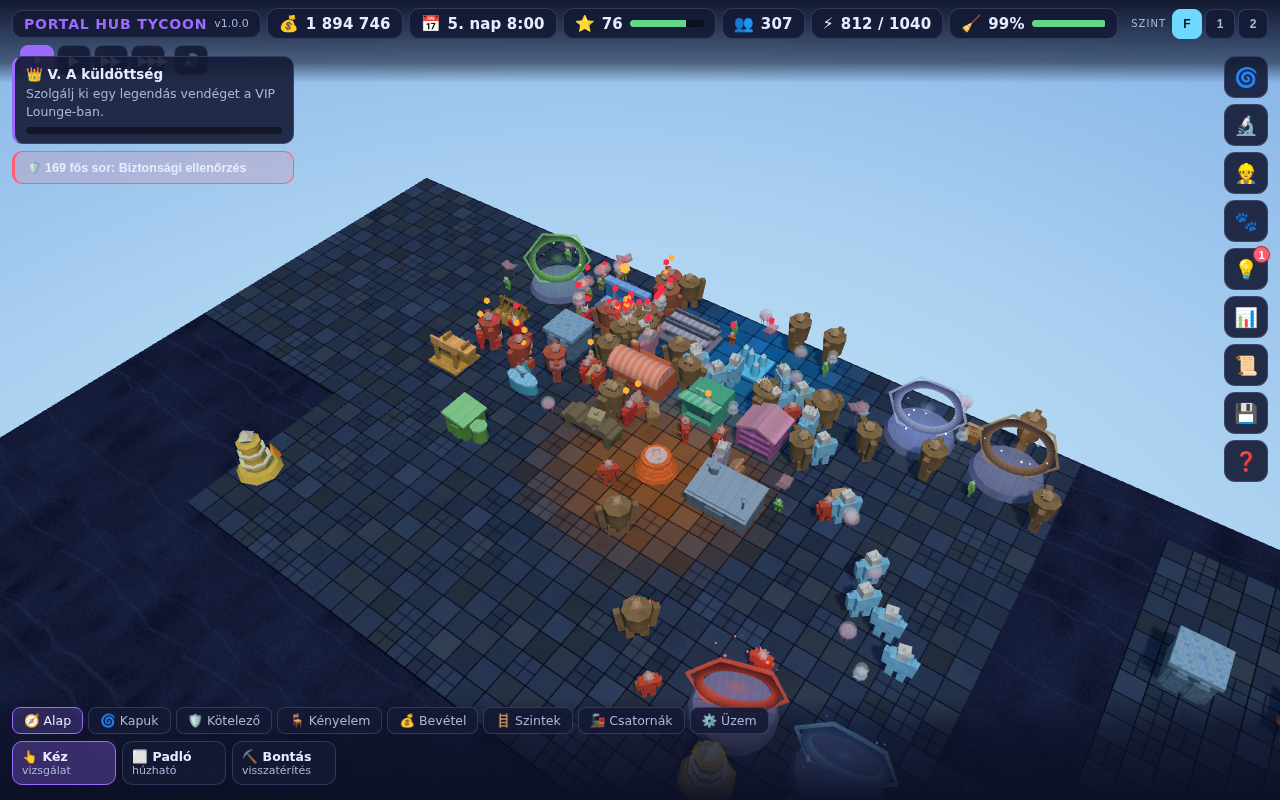
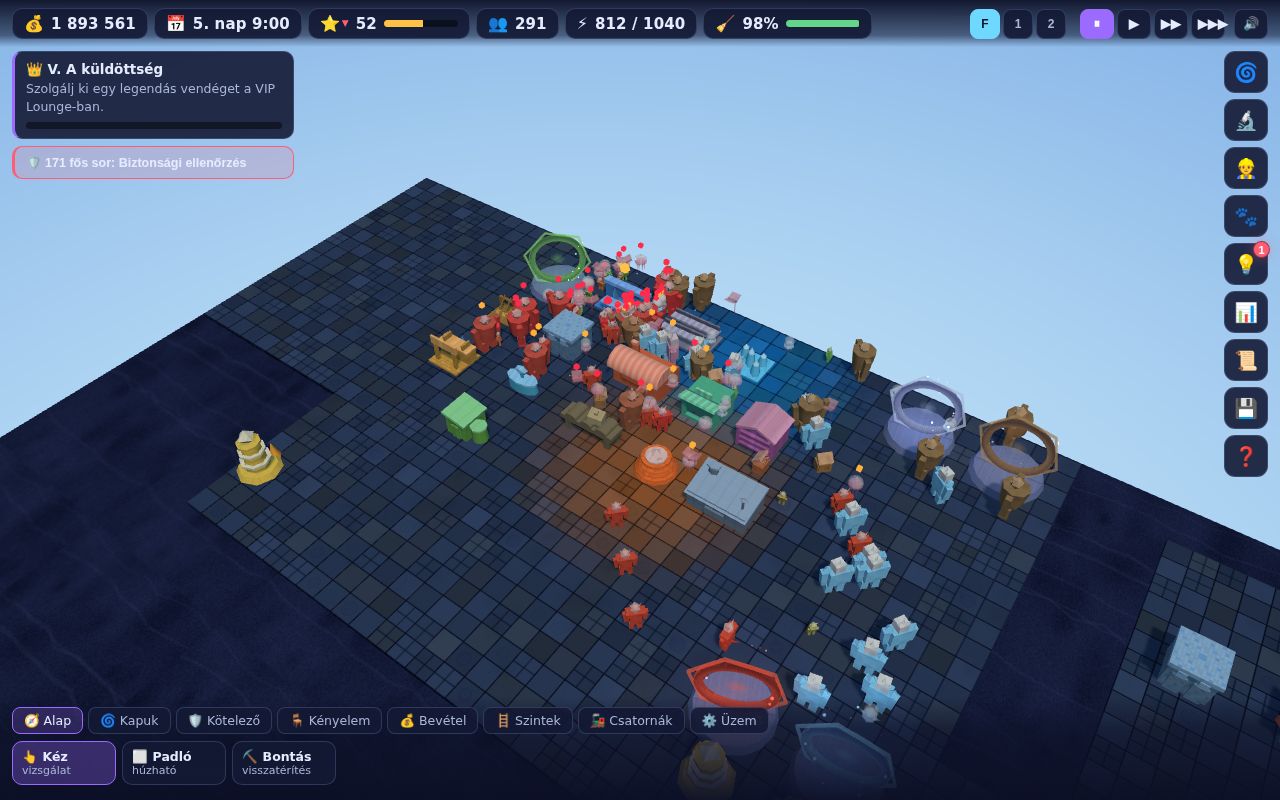
felület: QA-kör — 3 kritikus és 4 súlyos hiba javítva
A felület-sáv kész. A QA-kör nem szonda volt, hanem valódi végigkattintás, és
pont azt találta meg, amit szonda nem tud: olyan hibákat, amikhez EMBERI
útvonal kell.

── KRITIKUS ──────────────────────────────────────────────────────────────
1. A „Ki áll itt?" panel MEGÁLLÍTOTTA A JÁTÉKOT. A `panelek.js` használta a
   `FAJOK` tömböt, de nem importálta → ReferenceError a fő hurokban → a
   `fo.js` kivétel-védelme leállította a szimulációt. EGYETLEN kattintás egy
   üres padlóra megfagyasztotta a partit. A böngésző-szonda ezt nem foghatta
   meg: a cellanézet csak vászonra kattintással hívható elő.
2. 1280 px-es ablakban ELTŰNT a szünet gomb és a hangkapcsoló — a felső sáv
   tördelt, és a második sorát a fix pozíciójú fejezet-kártya takarta.
3. Az esemény-ablak ELNYELTE a kattintásokat, miközben futott az idő. A
   szándék épp az volt, hogy az esemény ne szakítsa meg a játékot — a teljes
   képernyős fátyol viszont megszakította.

── SÚLYOS ────────────────────────────────────────────────────────────────
4. A fájlból betöltés NÉMÁN felülírta a játékos 3. mentését.
5. A bérbeadás-panel 42 %-ot ígért, a valóság 60 % — ez a tegnapi hangolásom
   maradéka volt. Most a configból számol, nem másolt számból.
6. A tanácsadó a másodperc nullán hazudott: az ingyen energiamagra „15 %-on
   üzemel, sorba állítja a vendégeket" — pedig 78 %-on termel és nincs sora.
7. A Dolgozók panel a végjátékban játszhatatlan volt: dolgozónként egy
[…]

diff --git a/portal/src/render/texturak.js b/portal/src/render/texturak.js
@@ -123,7 +123,7 @@ function texturaz(THREE, c, ismetX = 1, ismetY = 1, nagyFelulet = false) {
    * adni: a deszkázat mérve 27 %-kal sötétítette a könyvesboltot, és ezt
    * kizárólag a szonda vette észre.
    */
-  t.atlag = atlagFenyesseg(c.getContext('2d'), c.width, c.height);
+  t.atlag = Number.isFinite(c.phtAtlag) ? c.phtAtlag : atlagFenyesseg(c);
   return t;
 }
 
@@ -141,11 +141,18 @@ function sza(r, g, b, a) { return `rgba(${r | 0},${g | 0},${b | 0},${a})`; }
 function szemcse(r, w, h, v, ero) {
   const kep = r.getImageData(0, 0, w, h);
   const d = kep.data;
+  let s = 0;
   for (let i = 0; i < d.length; i += 4) {
     const z = (v() - 0.5) * ero;
     d[i] += z; d[i + 1] += z; d[i + 2] += z;
+    // A LINEÁRIS átlagot itt vesszük fel, MENET KÖZBEN. Külön menetben ez a
+    // padlónál (1024×1024) újabb négymegabájtos `getImageData` és egymillió
+    // képpont lenne — merő indulási idő. Itt viszont a ciklus úgyis fut, és a
+    // szemcse UTÁNI, tehát VÉGLEGES értékeket látjuk.
+    s += 0.2126 * LINEARIS[d[i]] + 0.7152 * LINEARIS[d[i + 1]] + 0.0722 * LINEARIS[d[i + 2]];
   }
   r.putImageData(kep, 0, 0);
+  return s / (w * h);
 }
 
 /** Lágy foltok radiális átmenetből — ez adja az „organikus" réteget. */
@@ -187,13 +194,27 @@ const LINEARIS = (() => {
  * fényt, és hónapokig senkinek nem tűnt fel. Az `allomas3d.js` ezzel a számmal
  * kompenzál: a textúra mintát ad, nem árnyékot.
  */
-function atlagFenyesseg(r, w, h) {
-  const d = r.getImageData(0, 0, w, h).data;
+function atlagFenyesseg(vasz) {
+  // ⚠ CSAK TARTALÉK ÚT. A textúrák túlnyomó része a `szemcse()`-től kapja meg
+  // a PONTOS lineáris átlagot (az a ciklus úgyis végigmegy minden képponton).
+  // Ez az ág csak azoknak marad, ahol nincs szemcse — ott kicsinyített
+  // másolaton átlagolunk, mert az `getImageData` a nagy vásznakon önmagában
+  // mérhető indulási idő.
+  //
+  // A kicsinyítés sRGB-ben átlagol, tehát KISSÉ fölé lő a lineáris átlagnak.
+  // Ahol számít (a padló fénykompenzációja), ott a pontos utat használjuk —
+  // mérve: a kicsinyített becslés −6,8 %-ra állította a padlót a −2,4 %
+  // helyett.
+  const K = 64;
+  const kicsi = vaszon(K, K);
+  const kr = kicsi.getContext('2d');
+  kr.drawImage(vasz, 0, 0, K, K);
+  const d = kr.getImageData(0, 0, K, K).data;
   let s = 0;
   for (let i = 0; i < d.length; i += 4) {
     s += 0.2126 * LINEARIS[d[i]] + 0.7152 * LINEARIS[d[i + 1]] + 0.0722 * LINEARIS[d[i + 2]];
   }
-  return s / (w * h);
+  return s / (K * K);
 }
 
 /**
@@ -352,7 +373,7 @@ function padloTextura(THREE) {
   // nem látszik nyolcas ismétlődésnek a nagy csarnok.
   foltok(r, S, S, v, 26, 40, 150, (g) => sza(255, 252, 240, 0.05 + g() * 0.05));
   foltok(r, S, S, v, 18, 30, 110, (g) => sza(60, 70, 100, 0.05 + g() * 0.05));
-  szemcse(r, S, S, v, 13);
+  c.phtAtlag = szemcse(r, S, S, v, 13);
 
   // `nagyFelulet: true` — ez az EGYETLEN felület, amit lapos szögből nézünk,
   // tehát csak ez fizet anizotróp szűrést (lásd a `texturaz` megjegyzését).
@@ -389,7 +410,7 @@ function kolapTextura(THREE) {
     }
   }
   foltok(r, F, F, v, 20, 8, 34, (g) => sza(120, 124, 140, 0.06 + g() * 0.08));
-  szemcse(r, F, F, v, 16);
+  c.phtAtlag = szemcse(r, F, F, v, 16);
   return texturaz(THREE, c);
 }
 
@@ -405,7 +426,7 @@ function vakolatTextura(THREE) {
     r.fillStyle = sza(180, 172, 162, 0.25 + v() * 0.3);
     r.fillRect(x, y, s, s);
   }
-  szemcse(r, F, F, v, 10);
+  c.phtAtlag = szemcse(r, F, F, v, 10);
   return texturaz(THREE, c);
 }
 
@@ -434,7 +455,7 @@ function femTextura(THREE) {
       r.fillStyle = g; r.beginPath(); r.arc(x + 7, y, 4, 0, Math.PI * 2); r.fill();
     }
   }
-  szemcse(r, F, F, v, 12);
+  c.phtAtlag = szemcse(r, F, F, v, 12);
   return texturaz(THREE, c);
 }
 
@@ -466,7 +487,7 @@ function faTextura(THREE) {
     r.fillStyle = sza(112, 78, 46, 0.5); r.fillRect(i * w, 0, 2, F);
     r.fillStyle = sza(255, 244, 228, 0.45); r.fillRect(i * w + 2, 0, 1, F);
   }
-  szemcse(r, F, F, v, 12);
+  c.phtAtlag = szemcse(r, F, F, v, 12);
   return texturaz(THREE, c);
 }
 
@@ -492,7 +513,7 @@ function kristalyTextura(THREE) {
     r.beginPath(); r.moveTo(0, y); r.lineTo(F, y + (v() - 0.5) * 30); r.stroke();
   }
   foltok(r, F, F, v, 14, 8, 30, (g) => sza(255, 255, 255, 0.14 + g() * 0.2));
-  szemcse(r, F, F, v, 8);
+  c.phtAtlag = szemcse(r, F, F, v, 8);
   return texturaz(THREE, c);
 }
 
@@ -513,7 +534,7 @@ function uvegTextura(THREE) {
   r.fillRect(0, F / 2 - 3, F, 6); r.fillRect(F / 2 - 3, 0, 6, F);
   r.fillRect(0, 0, F, 5); r.fillRect(0, F - 5, F, 5);
   r.fillRect(0, 0, 5, F); r.fillRect(F - 5, 0, 5, F);
-  szemcse(r, F, F, v, 6);
+  c.phtAtlag = szemcse(r, F, F, v, 6);
   return texturaz(THREE, c);
 }
 
@@ -536,7 +557,7 @@ function szovetTextura(THREE) {
     r.fillStyle = sza(150, 128, 114, 0.32); r.fillRect(i * w - 1, 0, 2, F);
   }
   foltok(r, F, F, v, 16, 10, 40, (g) => sza(200, 172, 152, 0.06 + g() * 0.08));
-  szemcse(r, F, F, v, 9);
+  c.phtAtlag = szemcse(r, F, F, v, 9);
   return texturaz(THREE, c);
 }
 
@@ -557,7 +578,7 @@ function csempeTextura(THREE) {
       r.fillRect(i * s + 1.5, j * s + 1.5, s - 3, 2);
     }
   }
-  szemcse(r, F, F, v, 7);
+  c.phtAtlag = szemcse(r, F, F, v, 7);
   return texturaz(THREE, c);
 }
 
@@ -576,7 +597,7 @@ function sziklaTextura(THREE) {
     for (let x = 0; x <= F; x += 32) r.lineTo(x, y + (v() - 0.5) * 9);
     r.stroke();
   }
-  szemcse(r, F, F, v, 22);
+  c.phtAtlag = szemcse(r, F, F, v, 22);
   return texturaz(THREE, c);
 }
 
@@ -612,7 +633,7 @@ function runaTextura(THREE) {
     else { r.moveTo(cx - 8, 44); r.lineTo(cx, 18); r.lineTo(cx + 8, 44); }
     r.stroke();
   }
-  szemcse(r, W, H, v, 8);
+  c.phtAtlag = szemcse(r, W, H, v, 8);
   return texturaz(THREE, c, 12, 1);
 }
 
@@ -691,7 +712,7 @@ function borTextura(THREE) {
   r.fillStyle = '#f2f2f2'; r.fillRect(0, 0, S, S);
   foltok(r, S, S, v, 22, 12, 40, (g) => sza(196, 196, 210, 0.20 + g() * 0.18));
   foltok(r, S, S, v, 14, 8, 26, (g) => sza(255, 255, 255, 0.20 + g() * 0.2));
-  szemcse(r, S, S, v, 6);
+  c.phtAtlag = szemcse(r, S, S, v, 6);
   return texturaz(THREE, c, 1, 1);
 }
 
@@ -710,6 +731,10 @@ const GYORSTAR = new WeakMap();
 export function texturak(THREE) {
   const kesz = GYORSTAR.get(THREE);
   if (kesz) return kesz;
+  // Az előállítás ideje MÉRT ÉRTÉK, nem érzés: ez indulási költség, és a
+  // böngésző-szonda pont az első másodpercekben számolja a tick-eket. A
+  // textúra-szonda kiírja, tehát nem tud csendben elhízni.
+  const t0 = (typeof performance !== 'undefined' && performance.now) ? performance.now() : 0;
   const k = {
     padlo: padloTextura(THREE),
     kolap: kolapTextura(THREE),
@@ -728,6 +753,11 @@ export function texturak(THREE) {
   // Az alaplemez egyetlen, HATALMAS doboz: a szikla sokszor ismétlődjön rajta,
   // különben egy elmosott folt lesz belőle.
   k.szikla.repeat.set(9, 3);
+  /** Az előállítás ideje ms-ban — a szonda ezt olvassa (nem enumerálható). */
+  Object.defineProperty(k, 'keszitesMs', {
+    value: ((typeof performance !== 'undefined' && performance.now) ? performance.now() : 0) - t0,
+    enumerable: false,
+  });
   GYORSTAR.set(THREE, k);
   return k;
 }

diff --git a/portal/qa/QA_KOR.md b/portal/qa/QA_KOR.md
@@ -13,7 +13,7 @@ mentés, régi mentés, betöltés. Közben javítottam a `src/ui/**`-t.
 
 **Mit NEM mértem:** sebességet, FPS-t. A felhőben nincs GPU. Az egyetlen
 sebesség-jellegű szám, ami itt szerepel (ms/képkocka), kizárólag azért van
-benne, mert egy MÁSIK hiba tüneteként jelentkezett — lásd a **K1** tételt —,
+benne, mert egy MÁSIK hiba tüneteként jelentkezett — lásd az **R1** tételt —,
 és nem a játék teljesítményének ítélete.
 
 > ⚠ **A mérés alatt két másik ügynök dolgozott** a `src/render/` (textúrák) és
@@ -31,12 +31,13 @@ benne, mert egy MÁSIK hiba tüneteként jelentkezett — lásd a **K1** tételt
 | **kritikus** | 3 | összeomló panel · eltűnő szünet gomb · elnyelt kattintás |
 | **súlyos** | 4 | adatvesztő fájl-betöltés · hazudó bérbeadás-szöveg · hazudó tanácsadó · játszhatatlan dolgozó-panel |
 | közepes | 8 | felfedezhetőség, olvashatóság, formázás |
-| kicsi | 5 | apróságok |
+| kicsi | 9 | apróságok |
 | **más sávban** | 3 | render/audio — csak jelentve |
 
-A kritikus és a súlyos tételek mind **javítva**, kivéve amit külön jelzek.
-Minden javítás a `src/ui/**` + `src/ui/stilus.css` + `index.html` +
-`tools/bongeszo_szonda.mjs` fájlkészleten belül maradt.
+A kritikus és a súlyos tételek mind **javítva**. Minden javítás a
+`src/ui/**` (benne a `stilus.css`) és a `tools/bongeszo_szonda.mjs`
+fájlkészleten belül maradt — a `sim/`, a `render/` és az `audio/`
+érintetlen. **A kör végén mind a négy kapu zöld** (7b. szakasz).
 
 ---
 
@@ -393,16 +394,31 @@ A `hud.js` a `vezerlo`-t megkapja, tehát ettől kezdve kirakhatunk hozzá gombo
 
 ## 7b. A KAPUK ÁLLÁSA A KÖR VÉGÉN
 
+
 | kapu | eredmény |
 |---|---|
-| `npx vite build` | ✅ |
-| `det_szonda.mjs` | ✅ **mind a 11 vizsgálat zöld** (80 nap, 3. korszak, 13-féle esemény) |
-| `kiadas_ellenorzo.mjs` | ✅ **7/7 — KIADHATÓ** (nincs külső hivatkozás, nincs `console.log`-nyom) |
-| `bongeszo_szonda.mjs` | ⚠ **9-ből 7 zöld** — a 4. („halad az idő") és az 5. („érkeznek utasok") elbukik, MINDKETTŐ az R1 következménye: 800 ms/képkocka mellett 2 másodperc alatt 20 tick fut le, és addig nem születik utas. A felület minden vizsgálata (2., 3., 6., 7., 8a., 8.) zöld, konzol-hiba nulla, és a betöltött világ bitre azonos a mentettel. |
+| `npx vite build` | ✅ 909 kB / 255 kB gzip |
+| `det_szonda.mjs` | ✅ **mind a 11 vizsgálat zöld** (80 nap, 3. korszak, 13-féle esemény, a betöltés bitre azonos) |
+| `kiadas_ellenorzo.mjs` | ✅ **7/7 — KIADHATÓ** (nincs külső hivatkozás, nincs ottfelejtett nyom) |
+| `bongeszo_szonda.mjs` | ✅ **mind a 9 vizsgálat zöld**, nulla konzol-hiba, 15 rajzolási hívás |
 
-A böngésző-szonda küszöbét **szándékosan nem vettem lejjebb.** A hibaüzenetét
-viszont pontosítottam, mert a régi („az idő nem halad: 0 → 3") a
-szimulációra mutatott, holott a rajzolás a szűk keresztmetszet.
+⚠ **A böngésző-szonda a kör közben KÉTSZER volt piros**, és egyik alkalommal
+sem a felület miatt:
+
+- **4. „halad az idő"** — 800 ms/képkockánál 2 másodperc alatt 20 tick futott
+  le a 40 helyett, mert a hurok `dt`-korlátja 250 ms (R1). A küszöböt
+  **nem vettem lejjebb**; a hibaüzenetet viszont kiegészítettem a mért
+  képkocka-idővel, és most kimondja, hogy ilyenkor a RAJZOLÁS a szűk
+  keresztmetszet, nem a sim. A kör végére a rajzolás 416 ms-ra jött vissza,
+  és a vizsgálat magától zöld lett — de **újra piros lesz, ha a render
+  tovább lassul.** Ez így helyes: pontosan ezt kell őriznie.
+- **5. „érkeznek utasok"** — ez viszont a SZONDA hibája volt, és javítottam.
+  Fix két másodpercet várt, majd nézte az utasszámot; az első utas viszont
+  **tickben** érkezik (`ERKEZES_ALAP_TICK = 45`), nem másodpercben. Lassabb
+  rajzolásnál a 43. tickre panaszkodott, hogy „egyetlen utas sem érkezett" —
+  holott az érkezéssel semmi baj nem volt. Most a 200. tickig vár (legfeljebb
+  20 valós másodpercig), és a tickszámot ki is írja. Ez nem enyhítés: a
+  sebességet a 4. vizsgálat őrzi, ez pedig attól függetlenül az érkezést.
 
 ---
 
